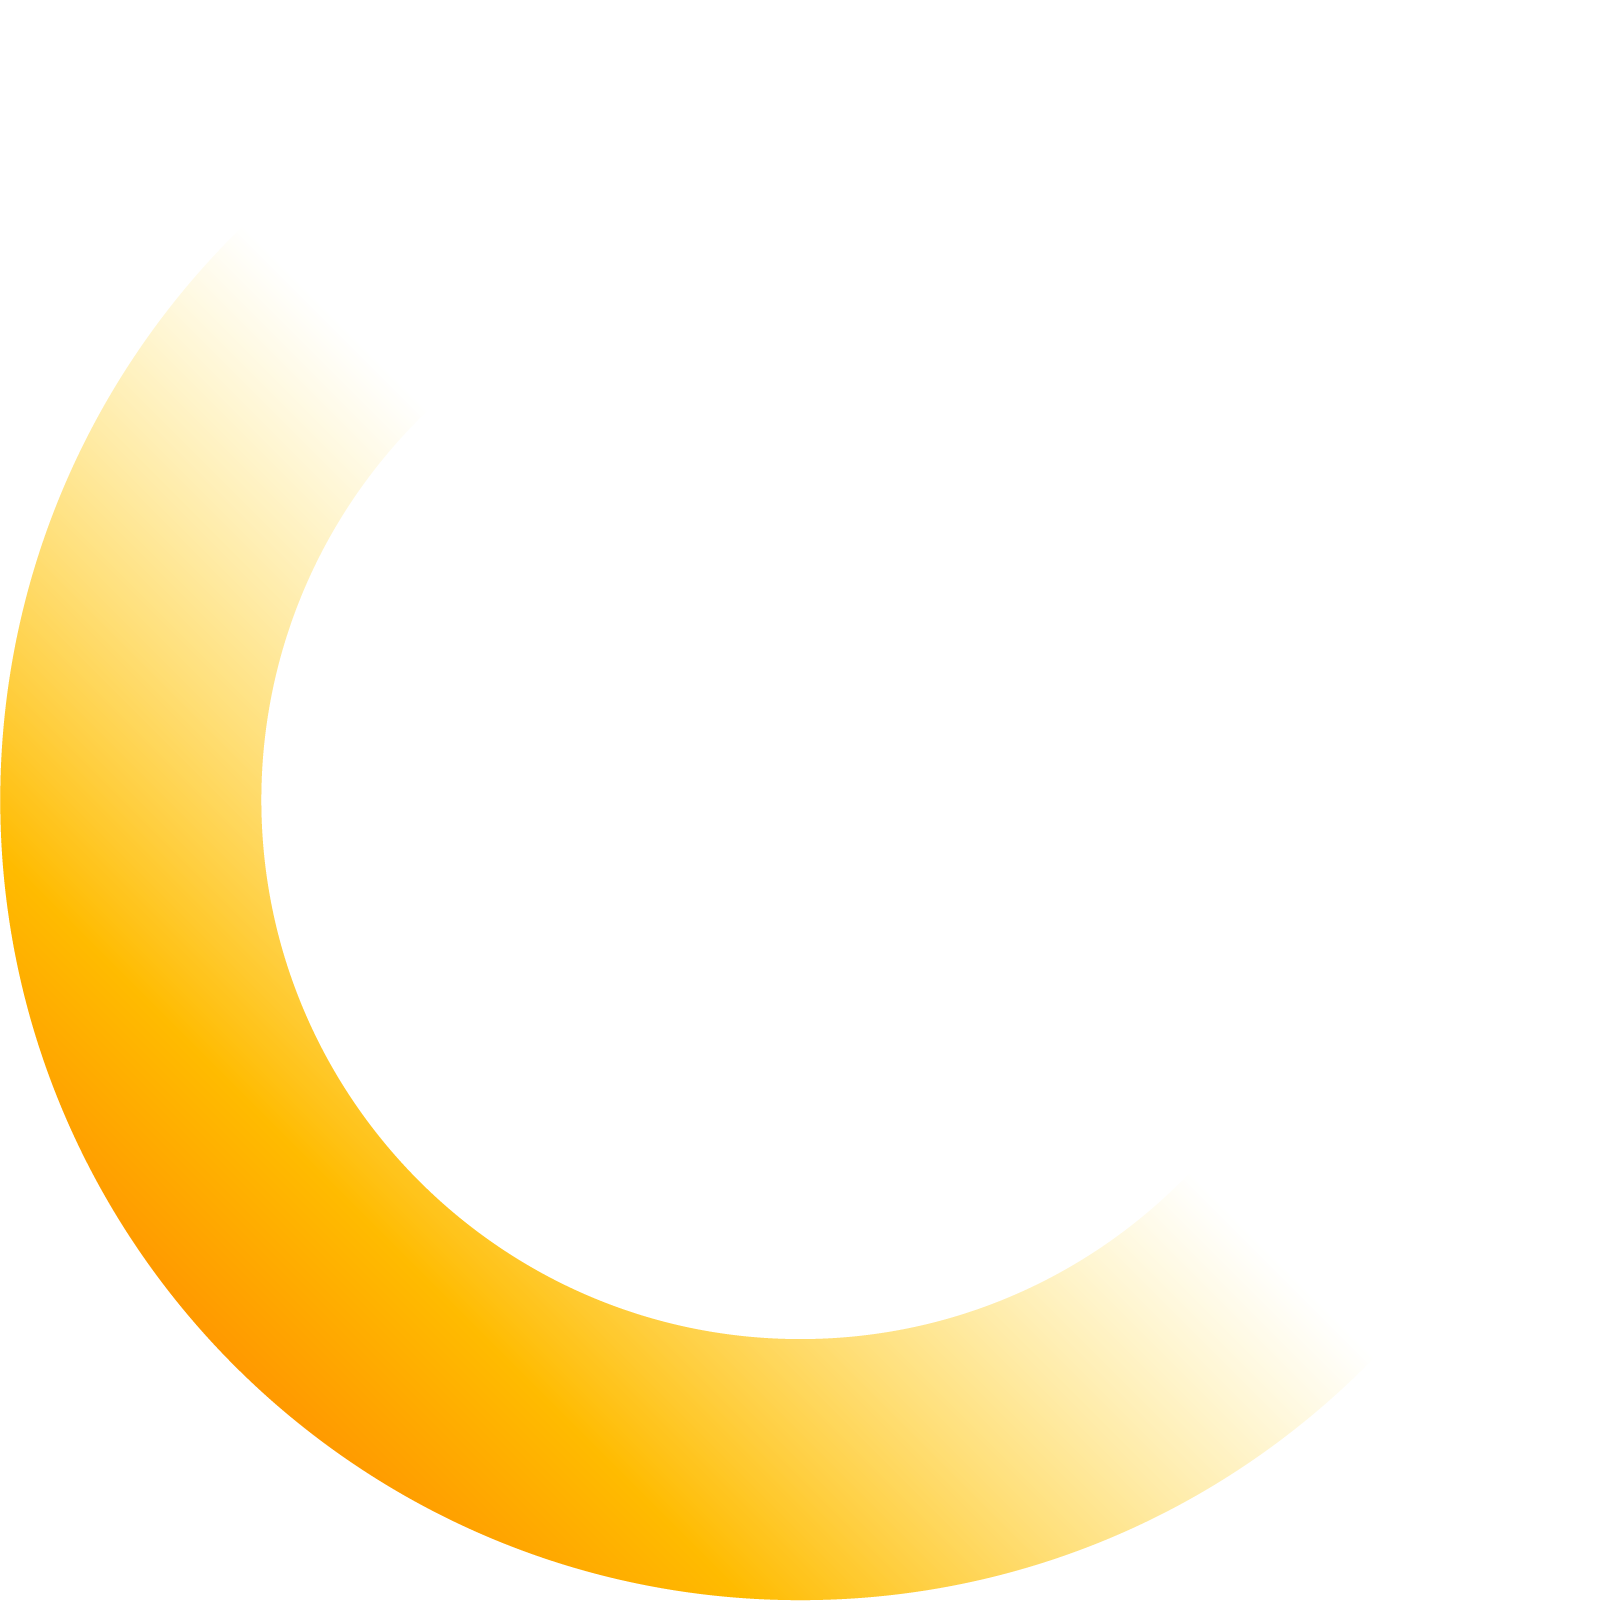
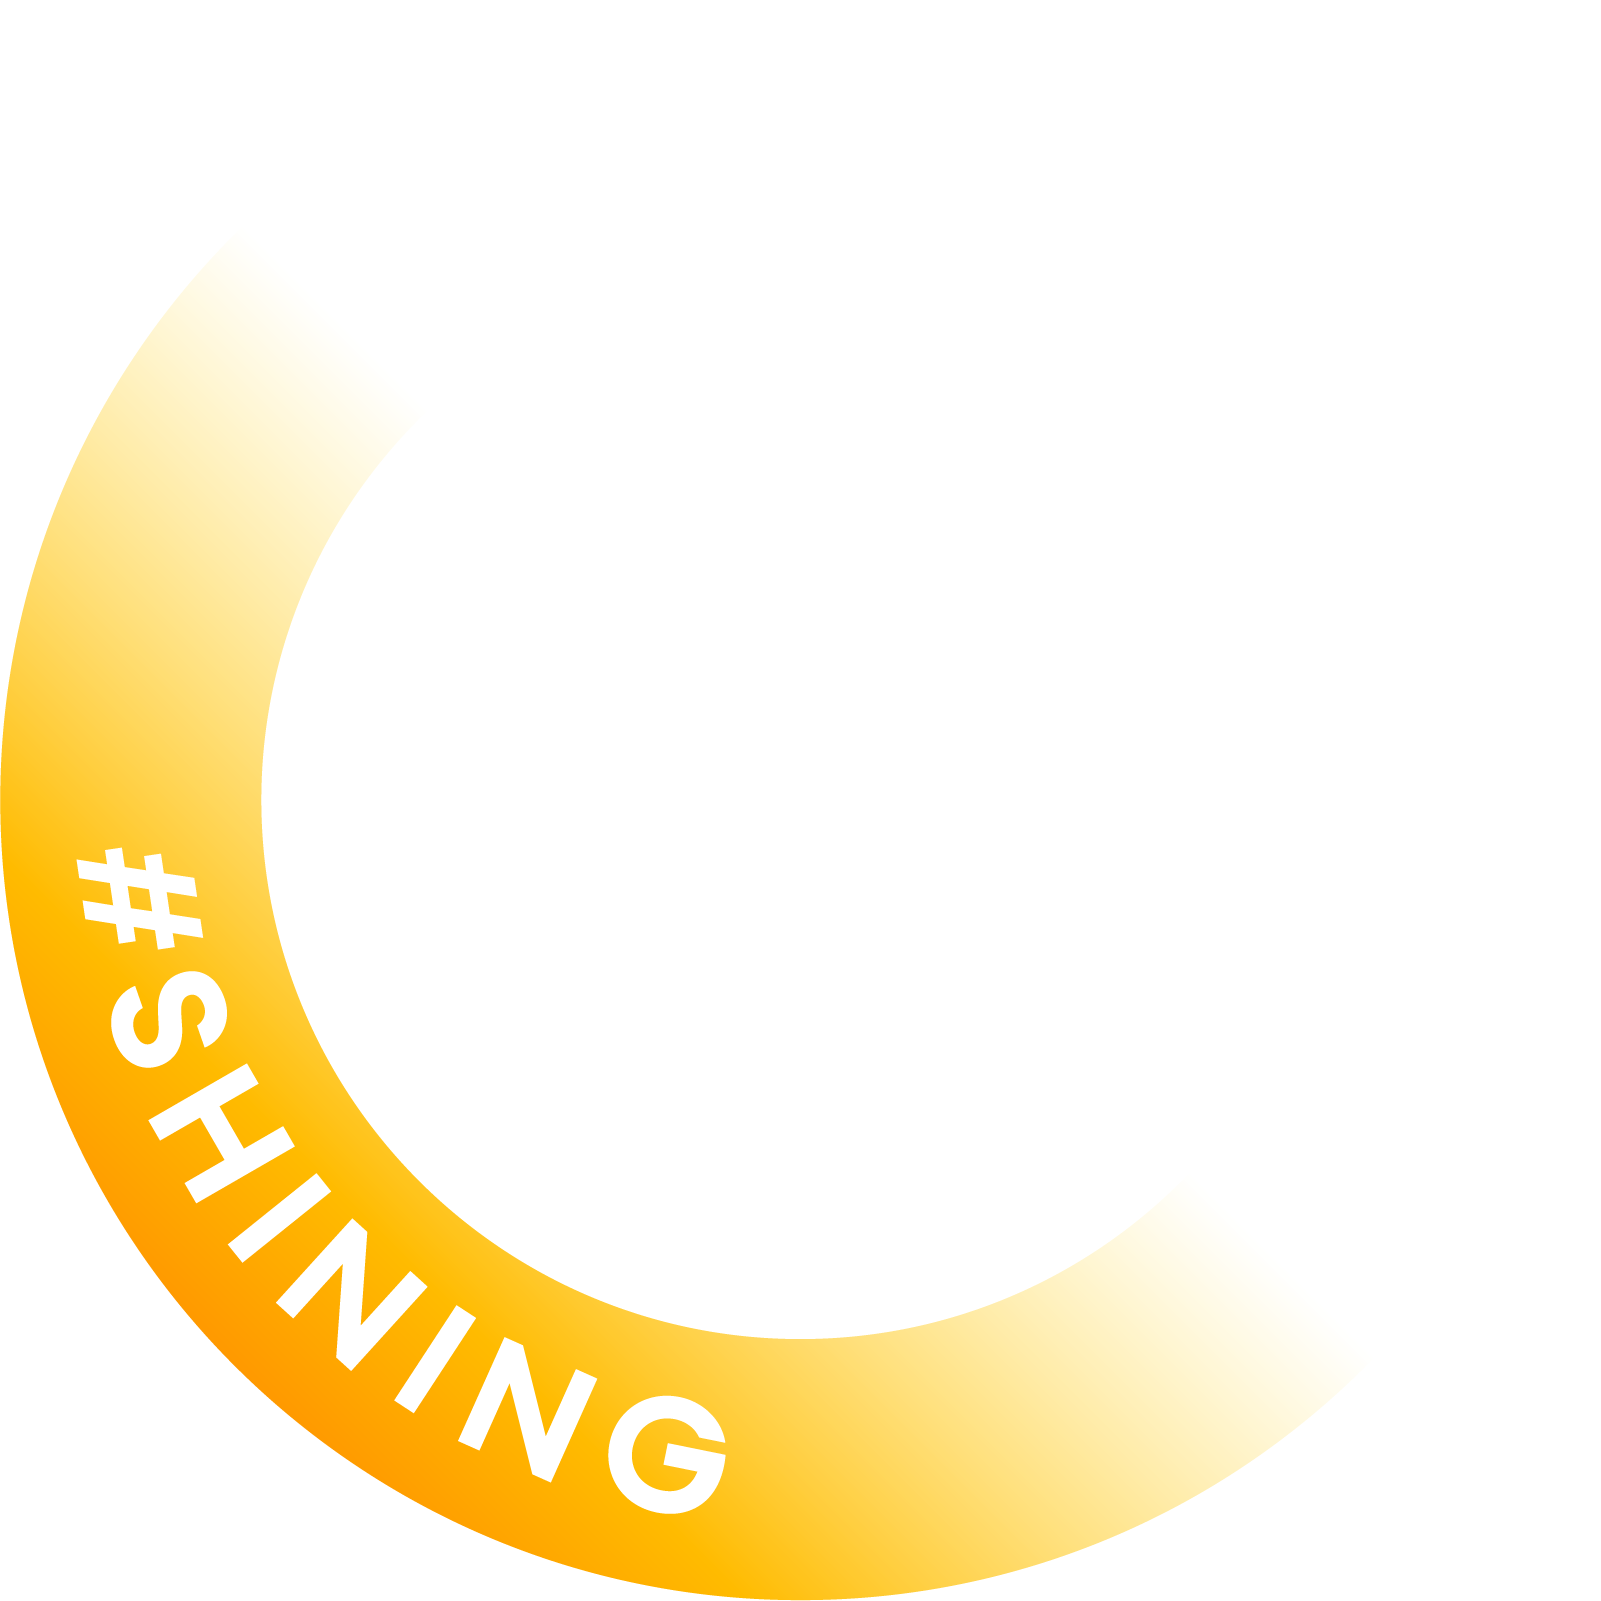
feat: updated Shining frame with text, add drag/zoom/pan canvas interaction

Changed region(s): [[0.0312, 0.5309, 0.4685, 0.9681]]

diff --git a/src/components/ImageEditor.tsx b/src/components/ImageEditor.tsx
@@ -4,9 +4,12 @@ import {
   drawCircularImage,
   applyIridescentEffect,
   drawFrame,
+  type PhotoTransform,
 } from '../lib/canvas';
 
 const CANVAS_SIZE = 600;
+const MIN_SCALE = 0.5;
+const MAX_SCALE = 5;
 
 export function ImageEditor() {
   const canvasRef = useRef<HTMLCanvasElement>(null);
@@ -20,8 +23,15 @@ export function ImageEditor() {
   const [hueOffset, setHueOffset] = useState(0);
   const [animating, setAnimating] = useState(true);
   const [dragging, setDragging] = useState(false);
+  const [isPanning, setIsPanning] = useState(false);
   const animFrameRef = useRef<number>(0);
   const hueRef = useRef(0);
+
+  // Photo pan/zoom transform — stored in a ref so RAF reads latest without re-subscribing
+  const transformRef = useRef<PhotoTransform>({ x: 0, y: 0, scale: 1 });
+  const lastPointerRef = useRef({ x: 0, y: 0 });
+  // Touch pinch state
+  const lastPinchDistRef = useRef<number | null>(null);
 
   const render = useCallback((currentHue: number, currentIntensity: number, _trigger?: boolean) => {
     const canvas = canvasRef.current;
@@ -31,19 +41,20 @@ export function ImageEditor() {
     if (!ctx) return;
 
     ctx.clearRect(0, 0, CANVAS_SIZE, CANVAS_SIZE);
-    drawCircularImage(ctx, photo, CANVAS_SIZE, CANVAS_SIZE);
+    drawCircularImage(ctx, photo, CANVAS_SIZE, CANVAS_SIZE, transformRef.current);
     applyIridescentEffect(ctx, CANVAS_SIZE, CANVAS_SIZE, currentIntensity, currentHue);
     if (frameImgRef.current) {
       drawFrame(ctx, frameImgRef.current, CANVAS_SIZE, CANVAS_SIZE);
     }
   }, []);
 
-  // Load photo once when photoSrc changes
+  // Load photo once when photoSrc changes; reset transform on new photo
   useEffect(() => {
     if (!photoSrc) {
       photoImgRef.current = null;
       return;
     }
+    transformRef.current = { x: 0, y: 0, scale: 1 };
     const img = new Image();
     img.onload = () => {
       photoImgRef.current = img;
@@ -86,6 +97,96 @@ export function ImageEditor() {
   useEffect(() => {
     if (!animating) render(hueRef.current, intensityRef.current);
   }, [intensity, animating, render]);
+
+  // Convert display-space delta to canvas-space delta
+  const toCanvasDelta = (dx: number, dy: number) => {
+    const canvas = canvasRef.current;
+    if (!canvas) return { dx, dy };
+    const rect = canvas.getBoundingClientRect();
+    return {
+      dx: (dx * CANVAS_SIZE) / rect.width,
+      dy: (dy * CANVAS_SIZE) / rect.height,
+    };
+  };
+
+  // --- Mouse drag ---
+  const handleMouseDown = (e: React.MouseEvent) => {
+    if (!photoSrc) return;
+    setIsPanning(true);
+    lastPointerRef.current = { x: e.clientX, y: e.clientY };
+  };
+
+  const handleMouseMove = (e: React.MouseEvent) => {
+    if (!isPanning) return;
+    const rawDx = e.clientX - lastPointerRef.current.x;
+    const rawDy = e.clientY - lastPointerRef.current.y;
+    lastPointerRef.current = { x: e.clientX, y: e.clientY };
+    const { dx, dy } = toCanvasDelta(rawDx, rawDy);
+    transformRef.current = {
+      ...transformRef.current,
+      x: transformRef.current.x + dx,
+      y: transformRef.current.y + dy,
+    };
+    render(hueRef.current, intensityRef.current);
+  };
+
+  const handleMouseUp = () => setIsPanning(false);
+
+  // --- Scroll to zoom ---
+  const handleWheel = (e: React.WheelEvent) => {
+    e.preventDefault();
+    if (!photoSrc) return;
+    const factor = e.deltaY < 0 ? 1.08 : 0.93;
+    transformRef.current = {
+      ...transformRef.current,
+      scale: Math.max(MIN_SCALE, Math.min(MAX_SCALE, transformRef.current.scale * factor)),
+    };
+    render(hueRef.current, intensityRef.current);
+  };
+
+  // --- Touch drag + pinch zoom ---
+  const handleTouchStart = (e: React.TouchEvent) => {
+    if (!photoSrc) return;
+    if (e.touches.length === 1) {
+      lastPointerRef.current = { x: e.touches[0].clientX, y: e.touches[0].clientY };
+      lastPinchDistRef.current = null;
+    } else if (e.touches.length === 2) {
+      const dx = e.touches[1].clientX - e.touches[0].clientX;
+      const dy = e.touches[1].clientY - e.touches[0].clientY;
+      lastPinchDistRef.current = Math.hypot(dx, dy);
+    }
+  };
+
+  const handleTouchMove = (e: React.TouchEvent) => {
+    e.preventDefault();
+    if (!photoSrc) return;
+    if (e.touches.length === 1 && lastPinchDistRef.current === null) {
+      const rawDx = e.touches[0].clientX - lastPointerRef.current.x;
+      const rawDy = e.touches[0].clientY - lastPointerRef.current.y;
+      lastPointerRef.current = { x: e.touches[0].clientX, y: e.touches[0].clientY };
+      const { dx, dy } = toCanvasDelta(rawDx, rawDy);
+      transformRef.current = {
+        ...transformRef.current,
+        x: transformRef.current.x + dx,
+        y: transformRef.current.y + dy,
+      };
+    } else if (e.touches.length === 2) {
+      const dx = e.touches[1].clientX - e.touches[0].clientX;
+      const dy = e.touches[1].clientY - e.touches[0].clientY;
+      const dist = Math.hypot(dx, dy);
+      if (lastPinchDistRef.current !== null) {
+        const factor = dist / lastPinchDistRef.current;
+        transformRef.current = {
+          ...transformRef.current,
+          scale: Math.max(MIN_SCALE, Math.min(MAX_SCALE, transformRef.current.scale * factor)),
+        };
+      }
+      lastPinchDistRef.current = dist;
+    }
+    render(hueRef.current, intensityRef.current);
+  };
+
+  const handleTouchEnd = () => { lastPinchDistRef.current = null; };
 
   const handleFile = (file: File) => {
     if (!file.type.startsWith('image/')) return;
@@ -178,14 +279,28 @@ export function ImageEditor() {
                 ref={canvasRef}
                 width={CANVAS_SIZE}
                 height={CANVAS_SIZE}
+                aria-label="Profile photo preview with Shining frame"
+                onMouseDown={handleMouseDown}
+                onMouseMove={handleMouseMove}
+                onMouseUp={handleMouseUp}
+                onMouseLeave={handleMouseUp}
+                onWheel={handleWheel}
+                onTouchStart={handleTouchStart}
+                onTouchMove={handleTouchMove}
+                onTouchEnd={handleTouchEnd}
                 style={{
                   borderRadius: '50%',
                   width: 'min(90vw, 400px)',
                   height: 'min(90vw, 400px)',
+                  cursor: isPanning ? 'grabbing' : 'grab',
                   boxShadow: '0 0 60px hsla(40, 90%, 55%, 0.35), 0 0 120px hsla(40, 80%, 40%, 0.2)',
+                  touchAction: 'none',
                 }}
               />
             </div>
+            <p style={{ color: 'var(--color-text-muted)', fontSize: '0.75rem', margin: '-1rem 0 0' }}>
+              Drag to reposition · Scroll or pinch to zoom
+            </p>
 
             <div
               style={{

diff --git a/src/lib/canvas.ts b/src/lib/canvas.ts
@@ -34,31 +34,39 @@ export function buildFrameDrawParams(
   };
 }
 
+export interface PhotoTransform {
+  x: number;   // pixel offset from center, in canvas coordinates
+  y: number;
+  scale: number; // multiplier on top of cover-fit base scale
+}
+
 /**
  * Draw the user's image onto the canvas, cropped to a circle.
- * Call this first before any overlays.
+ * transform lets the user drag/zoom the photo within the frame.
  */
 export function drawCircularImage(
   ctx: CanvasRenderingContext2D,
   img: HTMLImageElement,
   canvasW: number,
   canvasH: number,
+  transform: PhotoTransform = { x: 0, y: 0, scale: 1 },
 ): void {
   const size = Math.min(canvasW, canvasH);
-  const x = (canvasW - size) / 2;
-  const y = (canvasH - size) / 2;
+  const cx = canvasW / 2;
+  const cy = canvasH / 2;
 
   ctx.save();
   ctx.beginPath();
-  ctx.arc(canvasW / 2, canvasH / 2, size / 2, 0, Math.PI * 2);
+  ctx.arc(cx, cy, size / 2, 0, Math.PI * 2);
   ctx.clip();
 
-  // Cover-fit the source image into the circle
-  const scale = Math.max(size / img.naturalWidth, size / img.naturalHeight);
-  const sw = img.naturalWidth * scale;
-  const sh = img.naturalHeight * scale;
-  const sx = x + (size - sw) / 2;
-  const sy = y + (size - sh) / 2;
+  // Cover-fit base, then apply user scale on top
+  const baseScale = Math.max(size / img.naturalWidth, size / img.naturalHeight);
+  const finalScale = baseScale * transform.scale;
+  const sw = img.naturalWidth * finalScale;
+  const sh = img.naturalHeight * finalScale;
+  const sx = cx - sw / 2 + transform.x;
+  const sy = cy - sh / 2 + transform.y;
 
   ctx.drawImage(img, sx, sy, sw, sh);
   ctx.restore();
